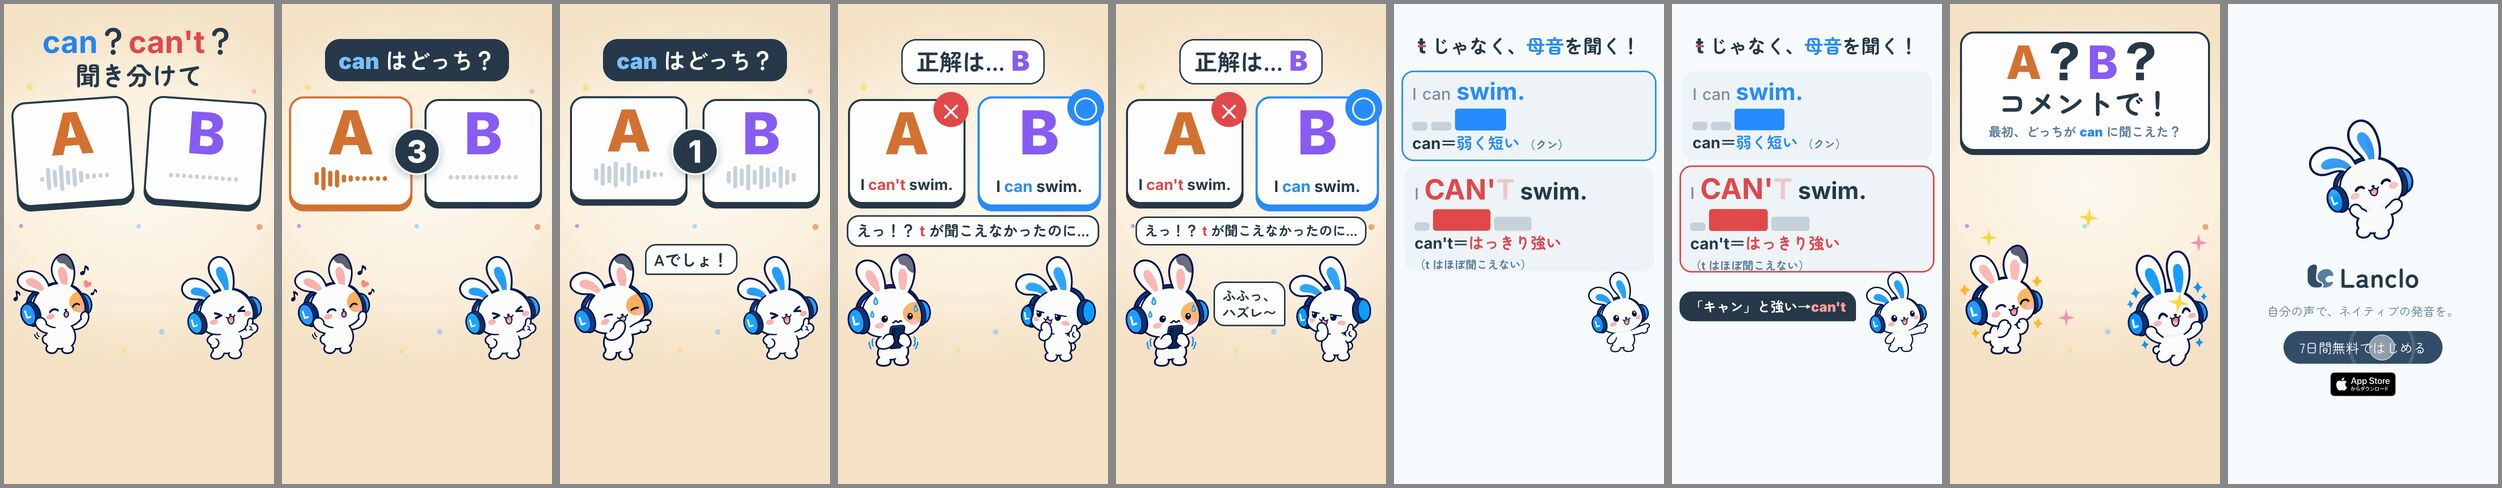
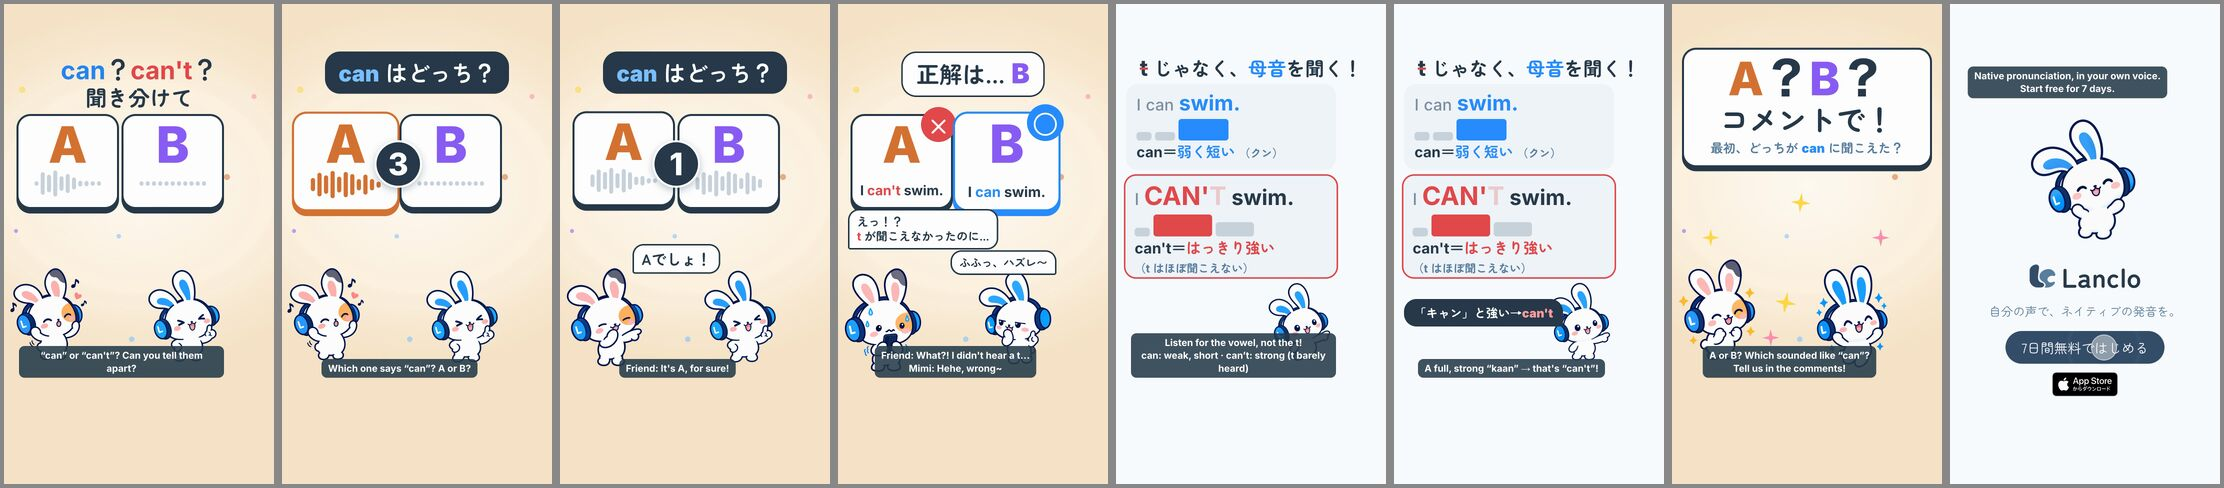
061 draft v3: keep text, bubbles and faces out of the platform UI zones

diff --git a/films/mimi-hear-can/source/hf/index.html b/films/mimi-hear-can/source/hf/index.html
@@ -15,25 +15,25 @@
                 background: radial-gradient(ellipse 900px 700px at 50% 38%, #fffaf2 0%, #fdf1df 60%, #f7e4c8 100%); }
       #studio i { position: absolute; border-radius: 50%; opacity: 0.55; }
       /* hook */
-      #hook { position: absolute; left: 30px; right: 30px; top: 80px; text-align: center; font-size: 116px; font-weight: 700; line-height: 1.15; color: #273b4b; }
+      #hook { position: absolute; left: 30px; right: 30px; top: 200px; text-align: center; font-size: 100px; font-weight: 700; line-height: 1.15; color: #273b4b; }
       #hook .en { font-family: "Helvetica Neue", Arial, sans-serif; color: #2886f3; }
       #hook .en.neg { color: #e5484d; }
-      #hook .s { display: block; font-size: 96px; }
-      #q { position: absolute; left: 0; right: 0; top: 140px; display: flex; justify-content: center; }
+      #hook .s { display: block; font-size: 86px; }
+      #q { position: absolute; left: 0; right: 0; top: 190px; display: flex; justify-content: center; }
       #q span { background: #273b4b; color: #ffffff; font-size: 88px; font-weight: 700; padding: 18px 54px 24px; border-radius: 60px; }
       #q b { font-family: "Helvetica Neue", Arial, sans-serif; color: #7cc0ff; }
       /* option cards */
-      .opt { position: absolute; top: 380px; width: 470px; height: 420px; border-radius: 56px; background: #ffffff; border: 8px solid #273b4b;
+      .opt { position: absolute; top: 440px; width: 410px; height: 380px; border-radius: 56px; background: #ffffff; border: 8px solid #273b4b;
              box-shadow: 0 18px 0 #273b4b; display: flex; flex-direction: column; align-items: center; padding-top: 14px; }
-      #opt-a { left: 40px; }
-      #opt-b { right: 40px; }
-      .opt .L { font-family: "Helvetica Neue", Arial, sans-serif; font-size: 230px; font-weight: 800; line-height: 1; }
+      #opt-a { left: 50px; }
+      #opt-b { left: 470px; }
+      .opt .L { font-family: "Helvetica Neue", Arial, sans-serif; font-size: 200px; font-weight: 800; line-height: 1; }
       #opt-a .L { color: #d57333; }
       #opt-b .L { color: #8a5cf6; }
-      .opt .bars { display: flex; align-items: center; gap: 10px; height: 110px; margin-top: 6px; }
+      .opt .bars { display: flex; align-items: center; gap: 9px; height: 100px; margin-top: 6px; }
       .opt .bars i { display: block; width: 16px; height: 18px; border-radius: 8px; background: #c9d3dc; }
       .opt .ans { position: absolute; left: 10px; right: 10px; bottom: 34px; text-align: center; font-family: "Helvetica Neue", Arial, sans-serif;
-                  font-size: 60px; font-weight: 700; color: #273b4b; opacity: 0; }
+                  font-size: 54px; font-weight: 700; color: #273b4b; opacity: 0; }
       .opt .ans u { text-decoration: none; color: #e5484d; }
       #opt-b .ans u { color: #2a8dff; }
       .opt .mark { position: absolute; right: -20px; top: -36px; width: 140px; height: 140px; border-radius: 50%; display: flex; align-items: center; justify-content: center;
@@ -41,52 +41,52 @@
       #opt-a .mark { background: #e5484d; }
       #opt-b .mark { background: #2a8dff; }
       /* countdown */
-      #cd { position: absolute; left: 445px; top: 495px; width: 190px; height: 190px; border-radius: 50%; background: #273b4b; border: 8px solid #ffffff;
+      #cd { position: absolute; left: 370px; top: 545px; width: 190px; height: 190px; border-radius: 50%; background: #273b4b; border: 8px solid #ffffff;
             box-shadow: 0 10px 30px rgba(39, 59, 75, 0.3); }
       #cd b { position: absolute; inset: 0; display: flex; align-items: center; justify-content: center; font-family: "Helvetica Neue", Arial, sans-serif;
               font-size: 124px; font-weight: 800; color: #ffffff; opacity: 0; }
       /* the two bunnies */
       .cast { position: absolute; height: auto; transform-origin: 50% 100%; }
-      .friend { left: 30px; top: 990px; width: 350px; }
-      .mimi { left: 700px; top: 1000px; width: 340px; }
+      .friend { left: 20px; top: 1050px; width: 320px; }
+      .mimi { left: 570px; top: 1060px; width: 300px; }
       .say { position: absolute; background: #ffffff; border: 6px solid #273b4b; border-radius: 44px; padding: 14px 30px 18px;
              font-size: 54px; font-weight: 700; line-height: 1.25; color: #273b4b; white-space: nowrap; }
       .say em { font-style: normal; color: #e5484d; font-family: "Helvetica Neue", Arial, sans-serif; }
-      #f-say { left: 340px; top: 960px; border-bottom-left-radius: 10px; font-size: 64px; }
-      #f-oops { left: 0; right: 0; margin: 0 auto; width: max-content; top: 850px; }
-      #m-say { left: 390px; top: 1110px; border-bottom-right-radius: 10px; }
-      #answer { position: absolute; left: 0; right: 0; top: 140px; display: flex; justify-content: center; }
+      #f-say { left: 290px; top: 960px; border-bottom-left-radius: 10px; font-size: 60px; }
+      #f-oops { left: 40px; top: 820px; font-size: 46px; border-bottom-left-radius: 10px; }
+      #m-say { left: 450px; top: 985px; font-size: 44px; border-bottom-right-radius: 10px; }
+      #answer { position: absolute; left: 0; right: 0; top: 190px; display: flex; justify-content: center; }
       #answer span { background: #ffffff; border: 6px solid #273b4b; color: #273b4b; font-size: 92px; font-weight: 700; padding: 14px 54px 22px; border-radius: 60px; }
       #answer b { display: inline-block; font-family: "Helvetica Neue", Arial, sans-serif; color: #8a5cf6; font-size: 110px; }
       /* the rule card */
       #rule { position: absolute; inset: 0; background: #fbfcfd; }
-      #r-title { position: absolute; left: 50px; right: 50px; top: 110px; text-align: center; font-size: 76px; white-space: nowrap; font-weight: 700; color: #273b4b; line-height: 1.25; }
+      #r-title { position: absolute; left: 50px; right: 50px; top: 200px; text-align: center; font-size: 76px; white-space: nowrap; font-weight: 700; color: #273b4b; line-height: 1.25; }
       #r-title em { font-style: normal; color: #2a8dff; }
       #r-title s { font-family: "Helvetica Neue", Arial, sans-serif; font-size: 88px; text-decoration-thickness: 9px; text-decoration-color: #e5484d; color: #273b4b; }
-      .row { position: absolute; left: 40px; right: 40px; height: 380px; border-radius: 48px; background: #f1f5f9; border: 6px solid transparent;
+      .row { position: absolute; left: 40px; right: 200px; height: 380px; border-radius: 48px; background: #f1f5f9; border: 6px solid transparent;
              padding: 24px 36px; }
-      #row-can { top: 270px; height: 355px; }
-      #row-cant { top: 650px; height: 420px; }
-      .row .en { font-family: "Helvetica Neue", Arial, sans-serif; font-size: 92px; font-weight: 700; color: #273b4b; line-height: 1.1; white-space: nowrap; }
+      #row-can { top: 320px; height: 345px; }
+      #row-cant { top: 685px; height: 410px; }
+      .row .en { font-family: "Helvetica Neue", Arial, sans-serif; font-size: 84px; font-weight: 700; color: #273b4b; line-height: 1.1; white-space: nowrap; }
       .row .en .w { font-size: 64px; color: #7e90a0; font-weight: 500; }
       #row-can .en .st { color: #2a8dff; }
-      #row-cant .en .st { display: inline-block; color: #e5484d; font-size: 112px; }
+      #row-cant .en .st { display: inline-block; color: #e5484d; font-size: 100px; }
       #row-cant .en .t { opacity: 0.25; }
       .row .syl { display: flex; align-items: flex-end; gap: 14px; height: 90px; margin: 14px 0 8px; }
       .row .syl i { display: block; border-radius: 12px; background: #c9d3dc; }
       #row-can .syl i.hi { background: #2a8dff; }
       #row-cant .syl i.hi { background: #e5484d; }
-      .row .rl { font-size: 62px; font-weight: 700; color: #273b4b; line-height: 1.2; }
+      .row .rl { font-size: 58px; font-weight: 700; color: #273b4b; line-height: 1.2; }
       .row .rl .kw { font-family: "Helvetica Neue", Arial, sans-serif; }
       #row-can .rl em { font-style: normal; color: #2a8dff; }
       #row-cant .rl em { font-style: normal; color: #e5484d; }
       .row .rl small { font-size: 44px; color: #5b7f9f; }
-      #r-mimi { position: absolute; left: 770px; top: 1065px; width: 260px; height: auto; transform-origin: 50% 100%; }
-      #r-hit { position: absolute; left: 30px; top: 1150px; background: #273b4b; color: #ffffff; font-size: 54px; font-weight: 700; padding: 18px 40px 22px;
+      #r-mimi { position: absolute; left: 620px; top: 1110px; width: 250px; height: auto; transform-origin: 50% 100%; }
+      #r-hit { position: absolute; left: 40px; top: 1180px; background: #273b4b; color: #ffffff; font-size: 48px; font-weight: 700; padding: 18px 40px 22px;
                border-radius: 50px; border-bottom-right-radius: 10px; white-space: nowrap; }
       #r-hit b { color: #ff9ea1; font-family: "Helvetica Neue", Arial, sans-serif; }
       /* ask for a comment */
-      #ask { position: absolute; left: 40px; right: 40px; top: 110px; background: #ffffff; border-radius: 56px; border: 8px solid #273b4b; box-shadow: 0 16px 0 #273b4b;
+      #ask { position: absolute; left: 40px; right: 40px; top: 175px; background: #ffffff; border-radius: 56px; border: 8px solid #273b4b; box-shadow: 0 16px 0 #273b4b;
              text-align: center; padding: 26px 20px 36px; }
       #ask .ab { display: block; font-family: "Helvetica Neue", Arial, sans-serif; font-size: 170px; font-weight: 800; line-height: 1.05; }
       #ask .ab .a { color: #d57333; }
@@ -97,8 +97,8 @@
       .sparkles { position: absolute; inset: 0; }
       /* English subtitles: just above the bottom safe zone (under the feet). <body class="no-subs"> renders the Japanese-only cut. */
       body.no-subs .sub { display: none; }
-      .sub { position: absolute; left: 30px; right: 30px; bottom: 410px; display: flex; justify-content: center; }
-      .sub span { display: block; max-width: 1000px; background: rgba(39, 59, 75, 0.88); color: #ffffff; font-size: 38px; line-height: 1.35;
+      .sub { position: absolute; left: 60px; right: 200px; bottom: 425px; display: flex; justify-content: center; }
+      .sub span { display: block; max-width: 820px; background: rgba(39, 59, 75, 0.88); color: #ffffff; font-size: 38px; line-height: 1.35;
                   font-weight: 700; text-align: center; padding: 12px 26px; border-radius: 22px; font-family: "Helvetica Neue", Arial, sans-serif; }
     </style>
   </head>
@@ -124,8 +124,8 @@
       <div id="answer" class="clip" data-start="5.4" data-duration="2.4" data-track-index="6"><span>正解は… <b id="ans-b">B</b></span></div>
 
       <div id="f-say" class="say clip" data-start="4.6" data-duration="0.8" data-track-index="7">Aでしょ！</div>
-      <div id="f-oops" class="say clip" data-start="6.2" data-duration="1.6" data-track-index="7">えっ！？ <em>t</em> が聞こえなかったのに…</div>
-      <div id="m-say" class="say clip" data-start="6.6" data-duration="1.2" data-track-index="8">ふふっ、<br />ハズレ〜</div>
+      <div id="f-oops" class="say clip" data-start="6.2" data-duration="1.6" data-track-index="7">えっ！？<br /><em>t</em> が聞こえなかったのに…</div>
+      <div id="m-say" class="say clip" data-start="6.6" data-duration="1.2" data-track-index="8">ふふっ、ハズレ〜</div>
 
       <!-- rule: Mimi's card, both lines again -->
       <div id="rule" class="clip" data-start="7.8" data-duration="5.2" data-track-index="10">
@@ -155,14 +155,14 @@
       <div id="end" class="end clip" data-start="14.7" data-duration="1.4" data-track-index="19"></div>
 
       <!-- English subtitles (one track) -->
-      <div class="sub clip" data-start="0" data-duration="1.8" data-track-index="24"><span>“can” or “can't”? Can you hear which is which?</span></div>
+      <div class="sub clip" data-start="0" data-duration="1.8" data-track-index="24"><span>“can” or “can't”? Can you tell them apart?</span></div>
       <div class="sub clip" data-start="1.8" data-duration="2.8" data-track-index="24"><span>Which one says “can”? A or B?</span></div>
       <div class="sub clip" data-start="4.6" data-duration="0.8" data-track-index="24"><span>Friend: It's A, for sure!</span></div>
       <div class="sub clip" data-start="5.4" data-duration="0.8" data-track-index="24"><span>The answer is… B!</span></div>
-      <div class="sub clip" data-start="6.2" data-duration="1.6" data-track-index="24"><span>Friend: What?! But I didn't hear a t… / Mimi: Hehe, wrong~</span></div>
-      <div class="sub clip" data-start="7.8" data-duration="3.3" data-track-index="24"><span>Listen for the vowel, not the t!<br />can = weak, short (k’n) · can’t = strong (t barely heard)</span></div>
+      <div class="sub clip" data-start="6.2" data-duration="1.6" data-track-index="24"><span>Friend: What?! I didn't hear a t…<br />Mimi: Hehe, wrong~</span></div>
+      <div class="sub clip" data-start="7.8" data-duration="3.3" data-track-index="24"><span>Listen for the vowel, not the t!<br />can: weak, short · can’t: strong (t barely heard)</span></div>
       <div class="sub clip" data-start="11.1" data-duration="1.9" data-track-index="24"><span>A full, strong “kaan” → that's “can't”!</span></div>
-      <div class="sub clip" data-start="13.0" data-duration="1.7" data-track-index="24"><span>A or B? Which one sounded like “can” to you? Tell us in the comments!</span></div>
+      <div class="sub clip" data-start="13.0" data-duration="1.7" data-track-index="24"><span>A or B? Which sounded like “can”?<br />Tell us in the comments!</span></div>
       <div class="sub clip" style="top: 250px; bottom: auto" data-start="14.7" data-duration="1.4" data-track-index="24"><span>Native pronunciation, in your own voice.<br />Start free for 7 days.</span></div>
 
       <audio id="mix" src="assets/mix.wav" data-start="0" data-duration="16.1" data-track-index="20" data-volume="1"></audio>
@@ -170,10 +170,10 @@
     <script>
       const K = window.MimiKit;
       K.endCard(document.getElementById("end"), "自分の声で、ネイティブの発音を。", "7日間無料ではじめる");
-      K.sparkles(document.getElementById("sp"), [[120, 900, "#ffd84a"], [960, 920, "#ff8fb1"], [520, 820, "#ffd84a"], [880, 1160, "#ffd84a"], [430, 1220, "#ff8fb1"]]);
+      K.sparkles(document.getElementById("sp"), [[120, 900, "#ffd84a"], [800, 900, "#ff8fb1"], [480, 760, "#ffd84a"], [420, 1160, "#ffd84a"], [360, 1300, "#ff8fb1"]]);
       // studio confetti dots (fixed positions: deterministic)
       const studio = document.getElementById("studio");
-      [[90, 320, 26, "#ffd84a"], [990, 340, 20, "#ff8fb1"], [530, 880, 18, "#7cc0ff"], [60, 880, 16, "#8a5cf6"], [1010, 880, 24, "#d57333"], [470, 1380, 18, "#ffd84a"], [620, 1300, 22, "#7cc0ff"]]
+      [[60, 330, 26, "#ffd84a"], [990, 360, 20, "#ff8fb1"], [450, 920, 18, "#7cc0ff"], [40, 900, 16, "#8a5cf6"], [880, 680, 24, "#d57333"], [400, 1420, 18, "#ffd84a"], [500, 1330, 22, "#7cc0ff"]]
         .forEach(([x, y, r, c]) => { const i = document.createElement("i"); Object.assign(i.style, { left: x + "px", top: y + "px", width: r + "px", height: r + "px", background: c }); studio.appendChild(i); });
       // waveform bars on both cards
       document.querySelectorAll(".opt .bars").forEach((b) => { for (let n = 0; n < 11; n++) b.appendChild(document.createElement("i")); });

diff --git a/films/mimi-hear-can/PROCESS.md b/films/mimi-hear-can/PROCESS.md
@@ -31,6 +31,12 @@
 - Rule title: 76 px (the struck t 88 px), 50 px side margins, one line; fully inside the frame.
 - v1 drafts moved to Drive `old/` with a `_v1` suffix.
 
+## Draft v3 (2026-10-23, platform safe zones)
+
+- Owner: 「セーフティエリアって大丈夫？被ってもいいけどすべてが隠れないようにね。」 Commander: the right-side Mimi and the small Mimi on the rule card sat in the right action rail (x > 900, y 820–1520); EN subtitles must end above y 1500 within x 60–880; top captions start at y ≥ 200.
+- Moved: cards 410 px wide at x 50–880 (top 440), countdown between them; Friend x 20–340 and Mimi x 570–870 (top ~1050); bubbles kept left of x 880 (「えっ！？」 on two lines); rule rows x 40–880, rule Mimi x 620–870; hook, question, answer, rule title and ask card start at y ≥ 200; subtitles `left 60 / right 200 / bottom 425`, shortened so none is over three lines; sparkles and confetti out of the rail.
+- Checked with a zone-overlay sheet of the EN cut every ~1.5 s ([process/01-safe-zones-v3.jpg](process/01-safe-zones-v3.jpg)). Audio unchanged (-14.2 LUFS, -1.7 dBTP). v2 drafts moved to Drive `old/` with a `_v2` suffix.
+
 ## Open questions
 
 - Owner's ear on the two takes (is “can” heard as weak enough with its higher pitch?).
